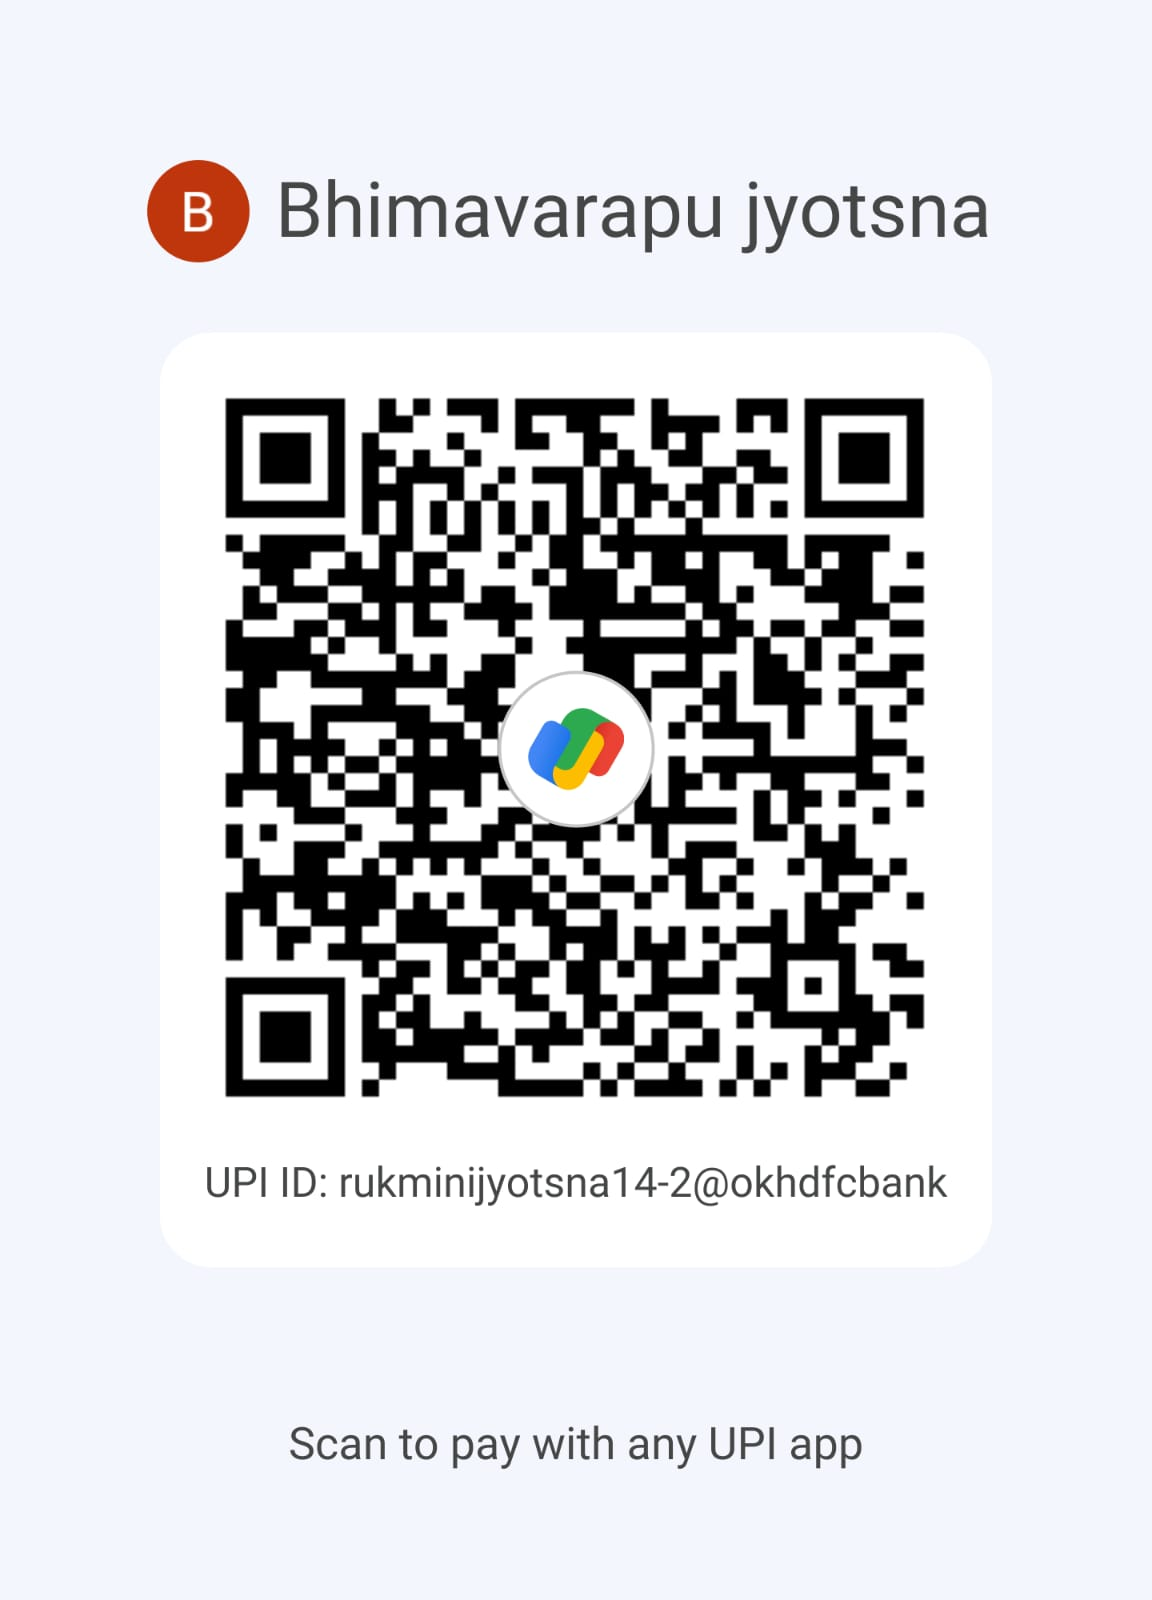
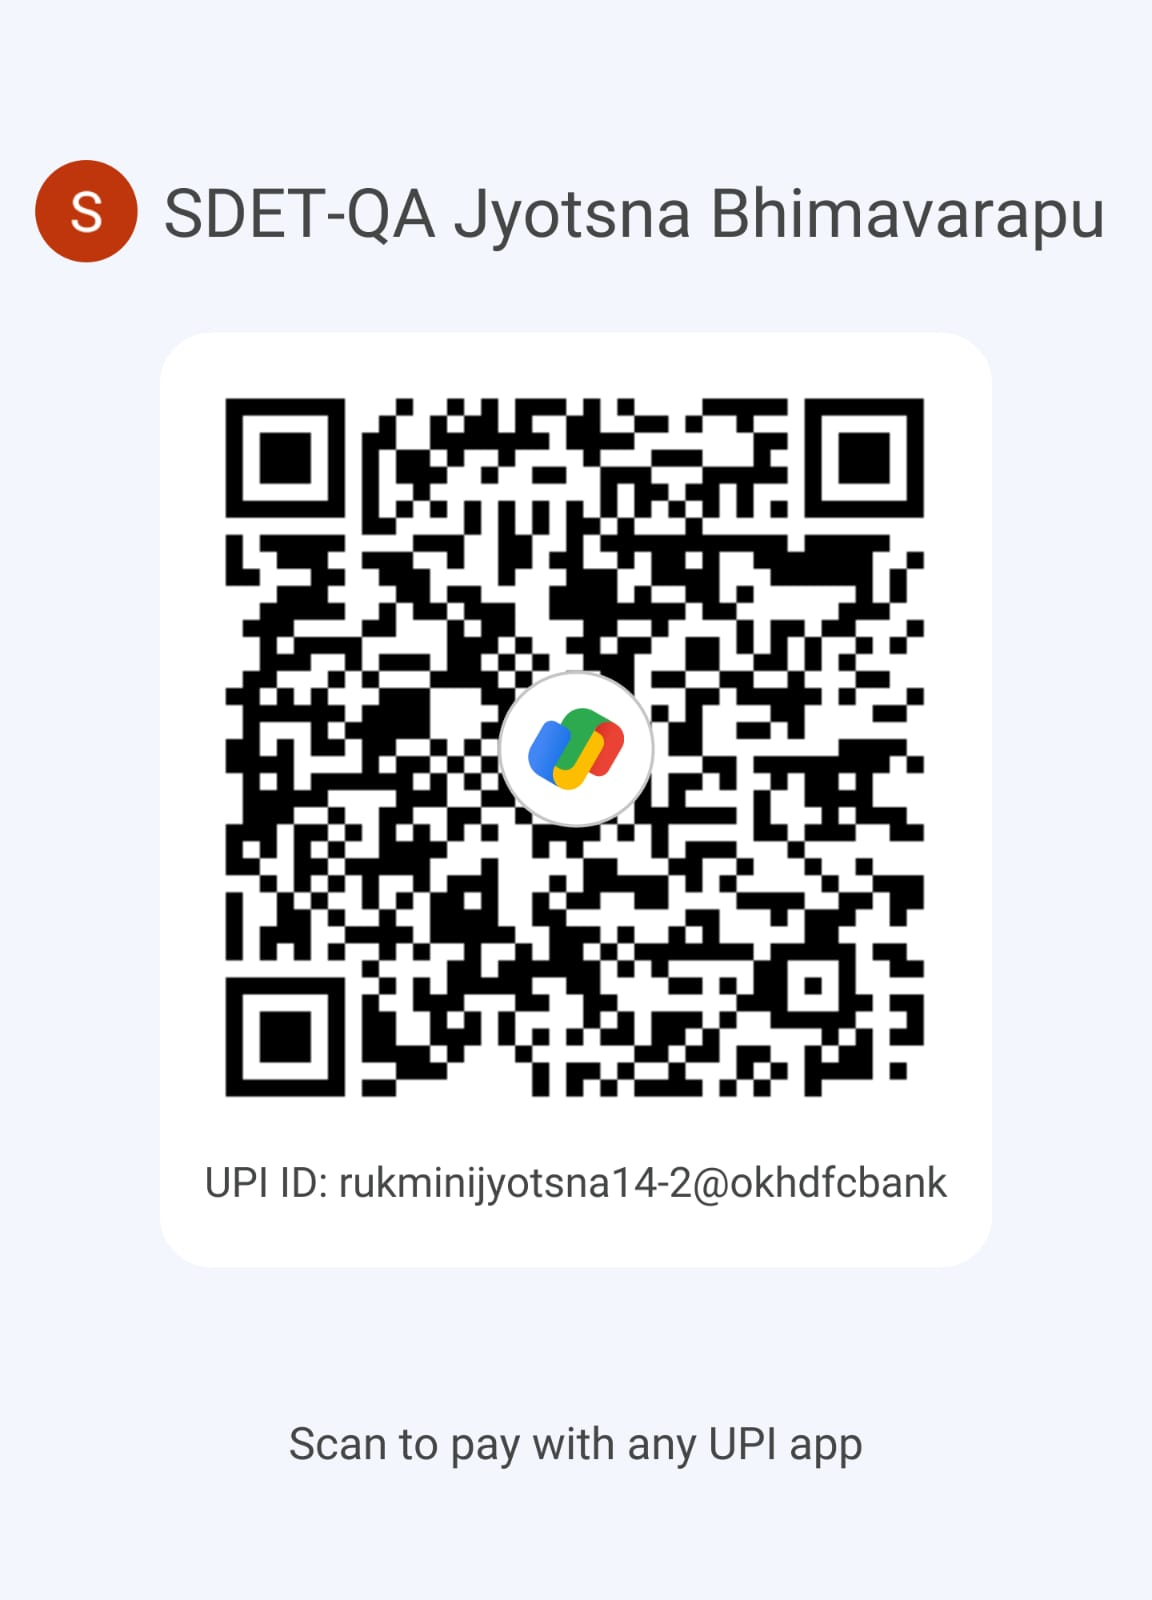
updated

diff --git a/playwright-typescript.html b/playwright-typescript.html
@@ -1942,8 +1942,8 @@
 							
 							 <!--<img src="pavan-qr-code.jpeg" alt="UPI QR Code" style="max-width: 200px; height: auto; border-radius: var(--radius); box-shadow: var(--shadow-md); display: block; margin: 0 auto;"/> -->
                             <!--<img src="prasanna-qr-code.jpeg" alt="UPI QR Code" style="max-width: 200px; height: auto; border-radius: var(--radius); box-shadow: var(--shadow-md); display: block; margin: 0 auto;" /> -->
-							<!--<img src="jyotsna-qr-code.jpeg" alt="UPI QR Code" style="max-width: 200px; height: auto; border-radius: var(--radius); box-shadow: var(--shadow-md); display: block; margin: 0 auto;" /> -->
-							<img src="arun-qr-code.jpeg" alt="UPI QR Code" style="max-width: 200px; height: auto; border-radius: var(--radius); box-shadow: var(--shadow-md); display: block; margin: 0 auto;" />
+							<img src="jyotsna-qr-code.jpeg" alt="UPI QR Code" style="max-width: 200px; height: auto; border-radius: var(--radius); box-shadow: var(--shadow-md); display: block; margin: 0 auto;" /> 
+							<!--<img src="arun-qr-code.jpeg" alt="UPI QR Code" style="max-width: 200px; height: auto; border-radius: var(--radius); box-shadow: var(--shadow-md); display: block; margin: 0 auto;" />-->
 						
 						
 					   </div>
